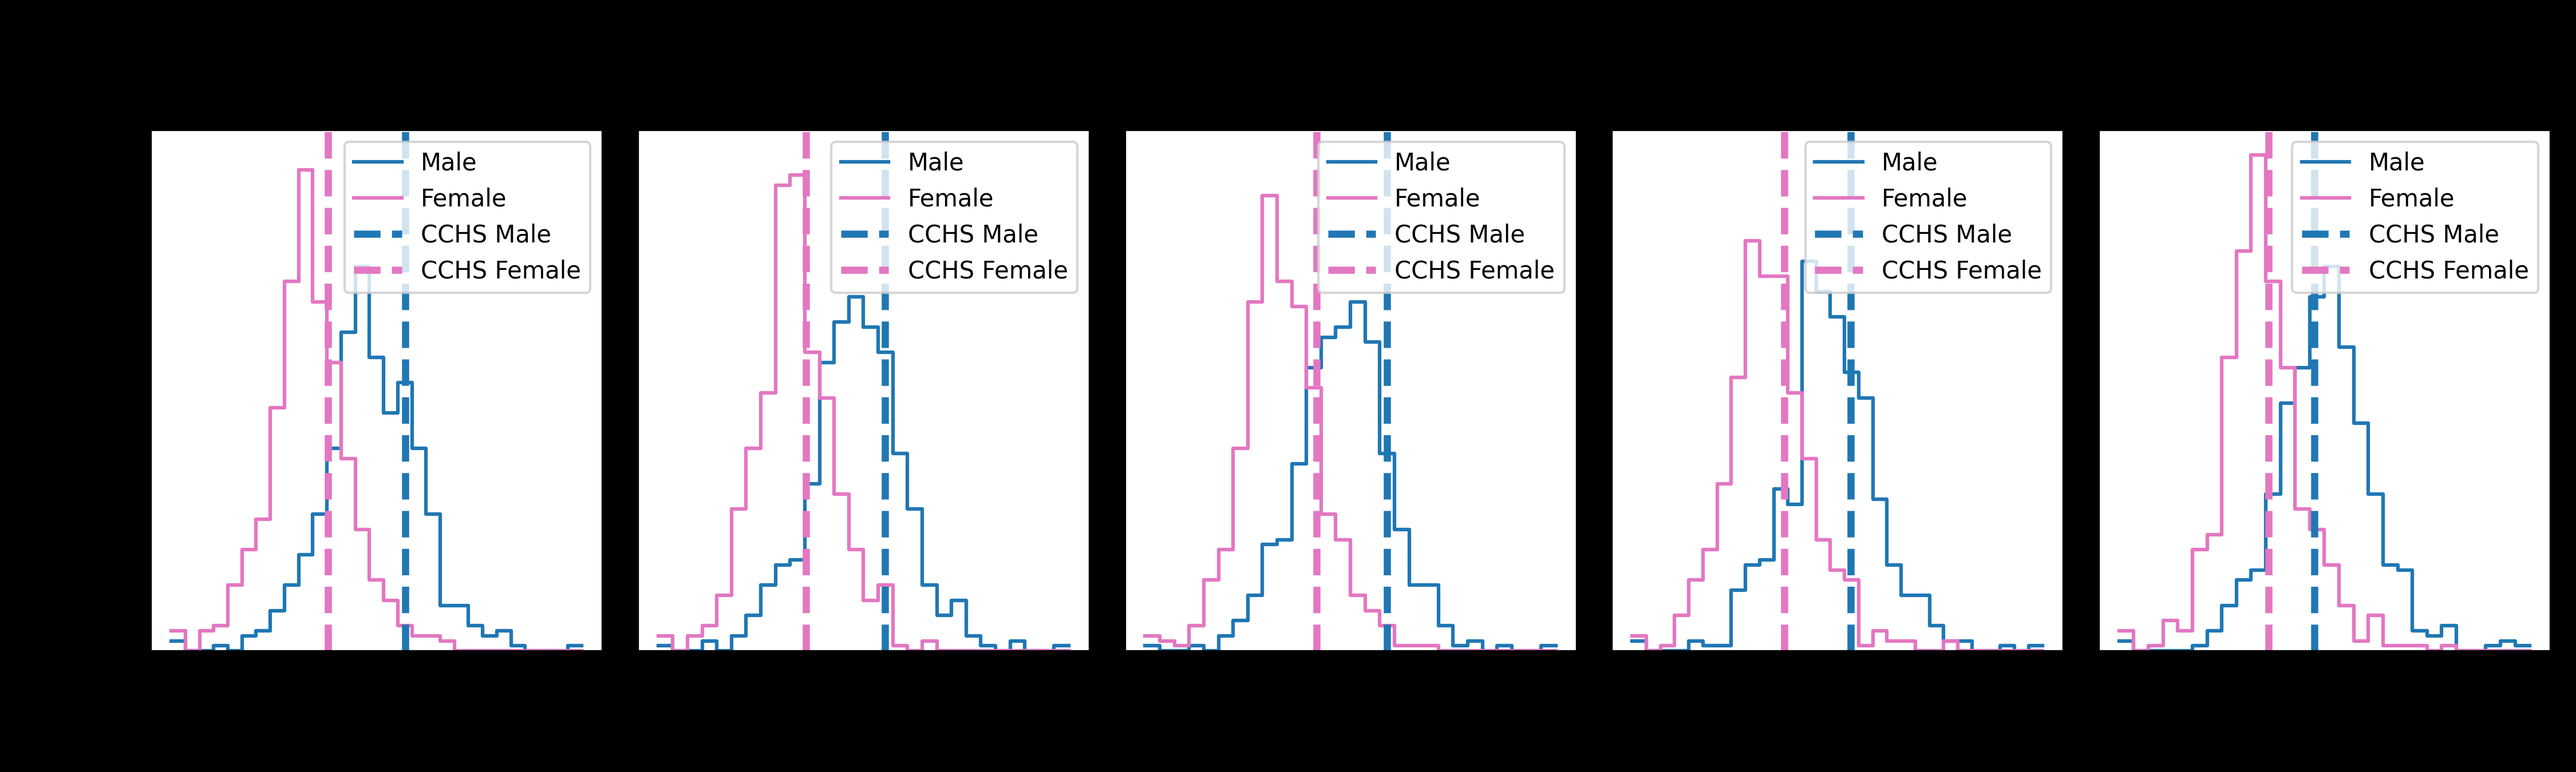
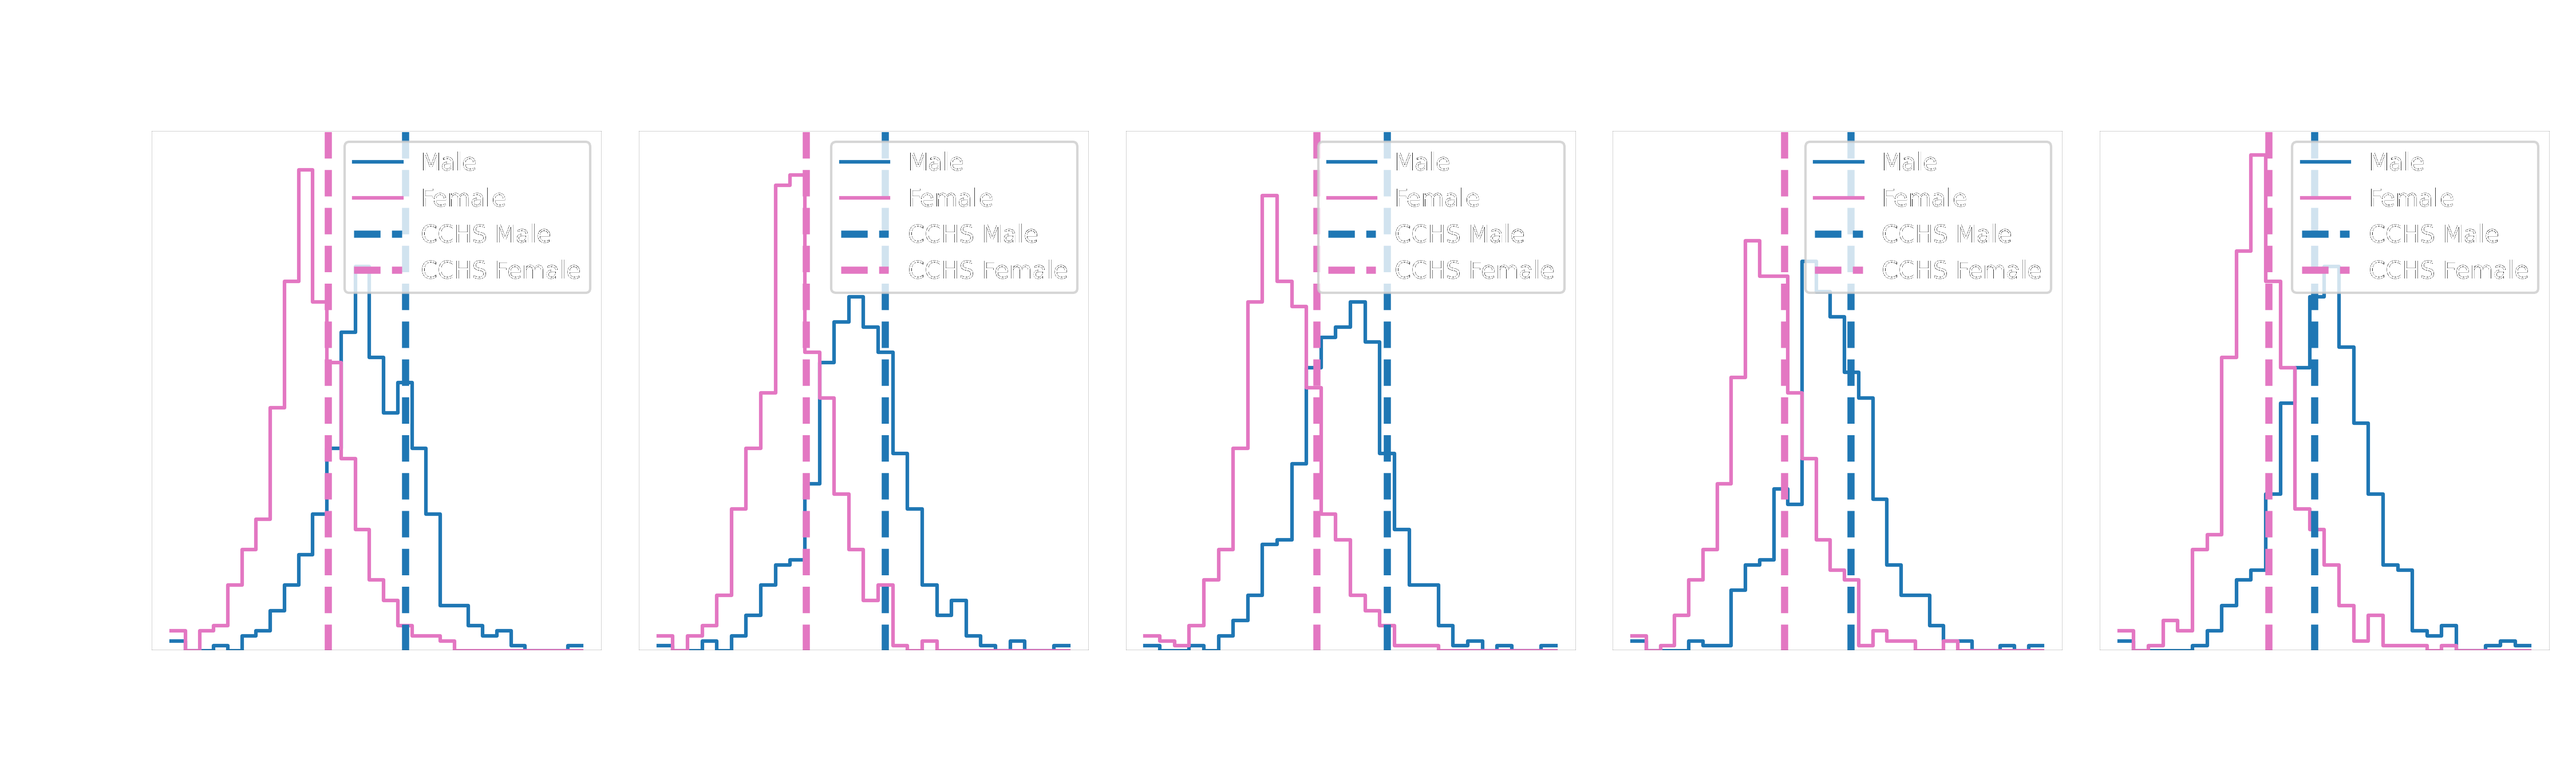
remove location and fix background

diff --git a/_includes/scripts/mathjax.html b/_includes/scripts/mathjax.html
@@ -8,5 +8,4 @@
     };
   </script>
   <script defer type="text/javascript" id="MathJax-script" src="https://cdn.jsdelivr.net/npm/mathjax@{{ site.mathjax.version }}/es5/tex-mml-chtml.js"></script>
-  <script defer src="https://polyfill.io/v3/polyfill.min.js?features=es6"></script>
   {%- endif %}

diff --git a/_pages/profiles.md b/_pages/profiles.md
@@ -13,14 +13,10 @@ profiles:
     image: prof_pic.jpg
     content: about.md
     image_circular: false # crops the image to make it circular
-    more_info: >
-      <p>66 Ulster street</p>
-      <p>Toronto, ON</p>
+    more_info:
   - align: left
     image: prof_pic.jpg
     content: about.md
     image_circular: false # crops the image to make it circular
-    more_info: >
-      <p>66 Ulster street</p>
-      <p>Toronto, ON</p>
+    more_info:
 ---

diff --git a/_pages/about.md b/_pages/about.md
@@ -9,7 +9,6 @@ profile:
   image: prof_pic.jpg
   image_circular: false # crops the image to make it circular
   more_info: >
-    <p>Toronto, ON</p>
 
 news: false  # includes a list of news items
 latest_posts: false  # includes a list of the newest posts
